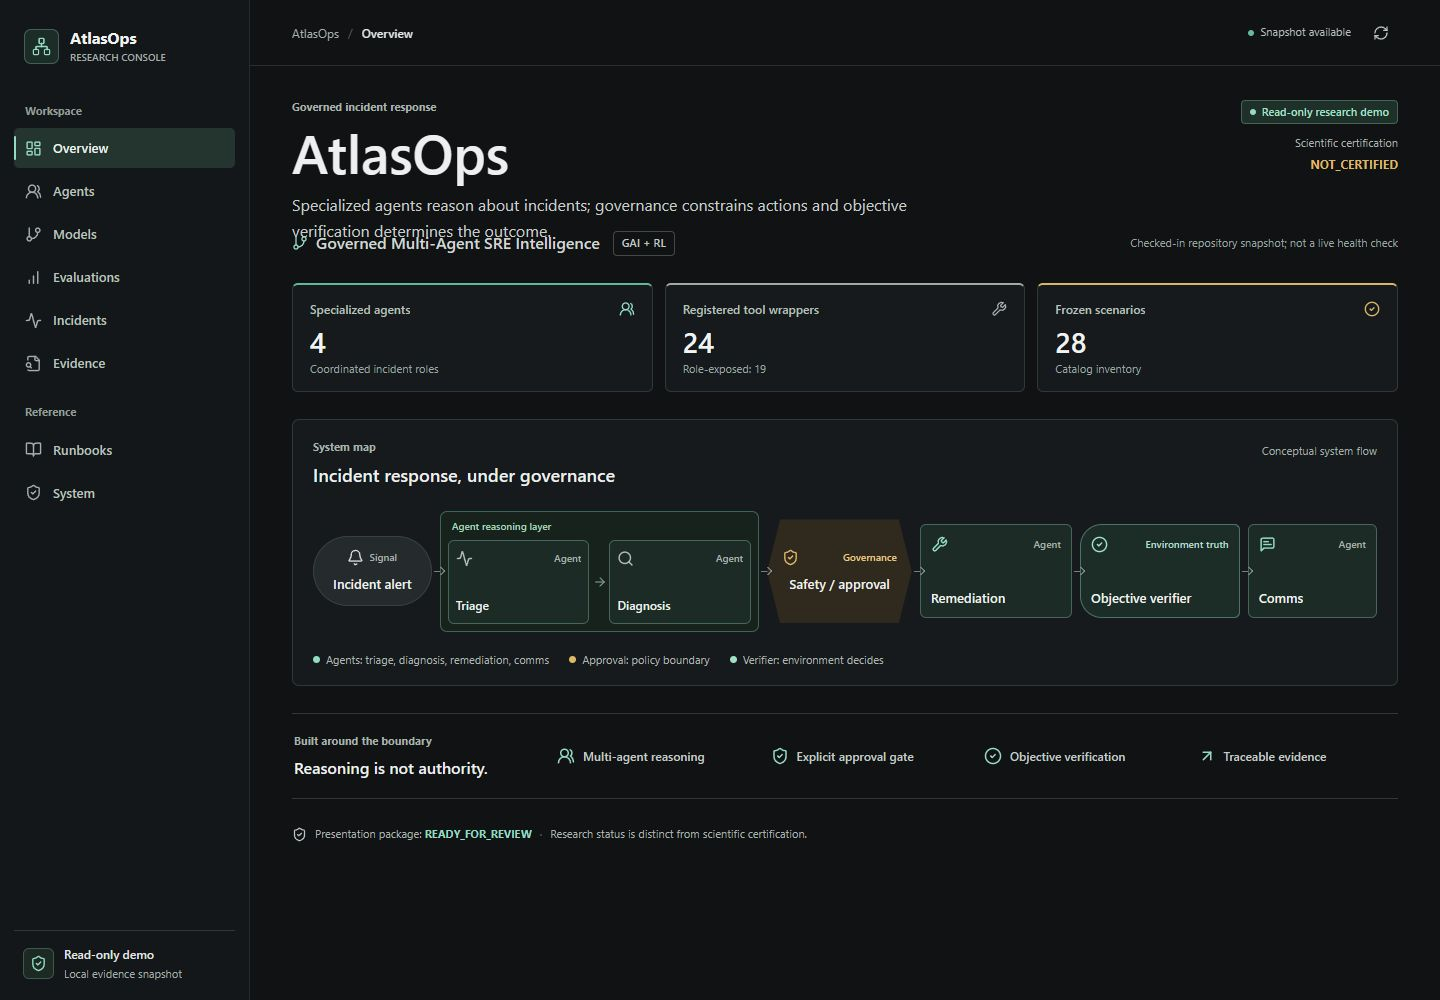
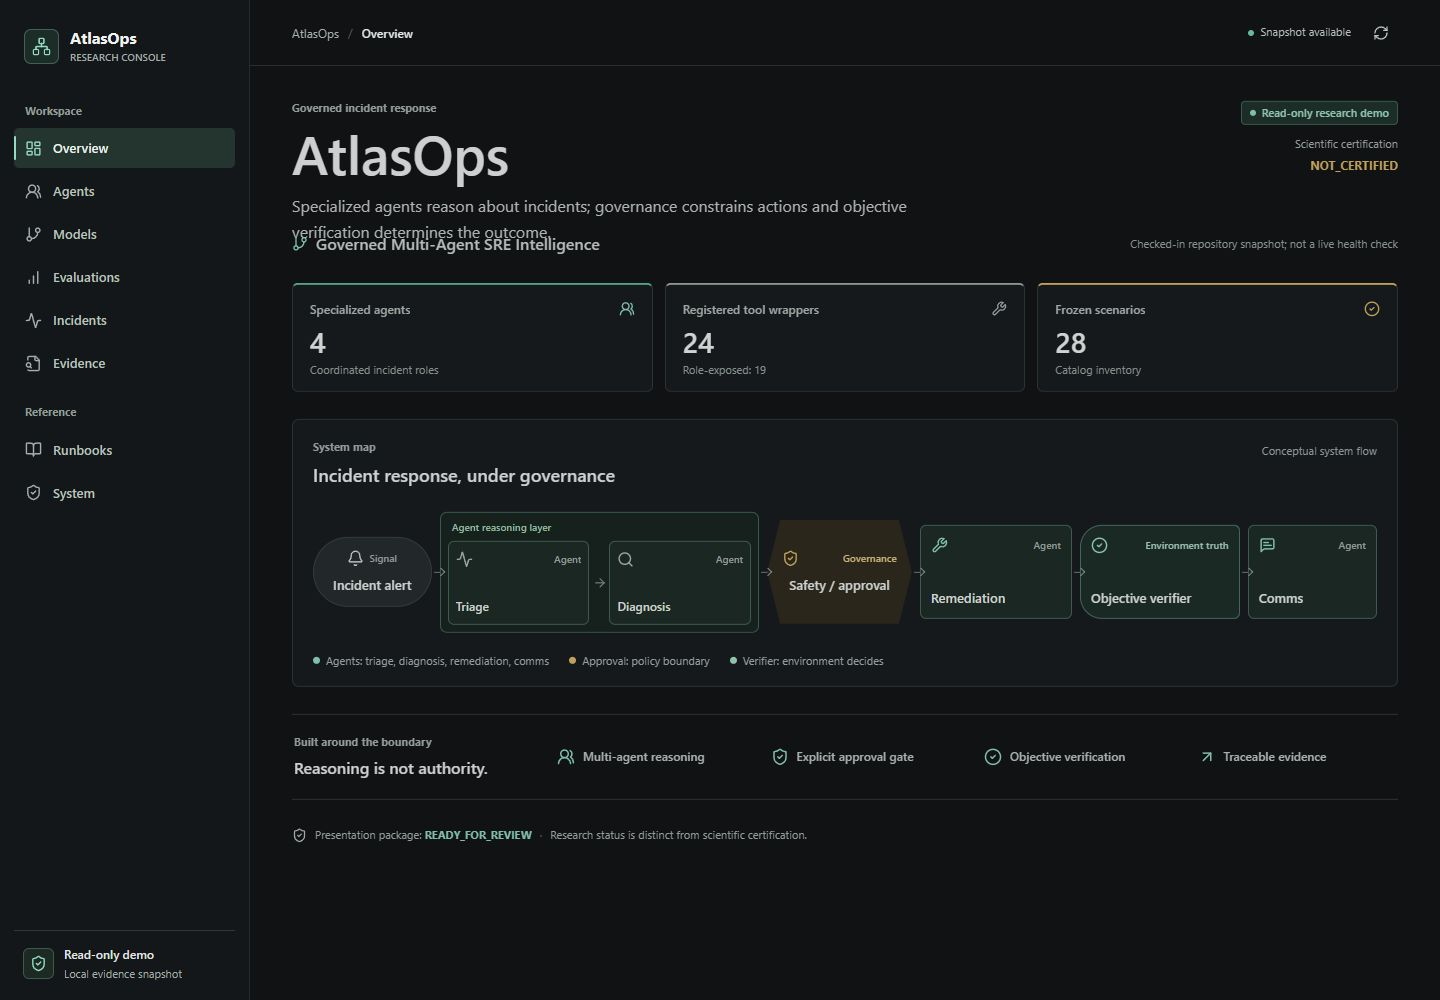
fix(ui): remove combined research label from presentation

diff --git a/frontend/e2e/console.spec.ts b/frontend/e2e/console.spec.ts
@@ -16,7 +16,7 @@ test("overview shows API inventory and stays distinct from certification", async
   await expect(page.getByRole("heading", { level: 1, name: "AtlasOps" })).toBeVisible();
   await expect(page.getByText("Governed Multi-Agent SRE Intelligence")).toBeVisible();
   await expect(page.getByText("Read-only research demo")).toBeVisible();
-  await expect(page.getByText("GAI + RL")).toBeVisible();
+  await expect(page.getByText(/GAI\s*\+\s*RL/i)).toHaveCount(0);
 
   const tools = page.locator(".metric-tile").filter({ hasText: "Registered tool wrappers" });
   await expect(tools.locator(".metric-value")).toHaveText("24");
@@ -32,6 +32,7 @@ test("every primary route is reachable through the hash router", async ({ page }
   for (const [label, path, heading] of routes) {
     await page.goto(`/#${path}`);
     await expect(page.getByRole("heading", { level: 1, name: heading })).toBeVisible();
+    await expect(page.getByText(/GAI\s*\+\s*RL/i)).toHaveCount(0);
   }
 });
 

diff --git a/frontend/src/pages/OverviewPage.tsx b/frontend/src/pages/OverviewPage.tsx
@@ -9,9 +9,6 @@ import { displayNumber, displayText } from "../lib/format";
 
 export function OverviewPage({ catalog }: CatalogPageProps) {
   const product = catalog?.product;
-  const workstreams = product?.workstreams?.length
-    ? product.workstreams.join(" + ")
-    : "Unavailable";
 
   return (
     <div className="page-stack overview-page">
@@ -35,7 +32,6 @@ export function OverviewPage({ catalog }: CatalogPageProps) {
             <span className="hero-subtitle-mark" aria-hidden="true"><GitBranch size={16} /></span>
             <span>{displayText(product?.subtitle)}</span>
           </div>
-          <Badge tone="outline" className="workstream-badge">{workstreams}</Badge>
           <span className="hero-source">{displayText(catalog?.source)}</span>
         </div>
       </section>

diff --git a/frontend/src/api/types.ts b/frontend/src/api/types.ts
@@ -168,7 +168,6 @@ export interface Product {
   name: string;
   subtitle: string;
   description: string;
-  workstreams: string[];
   agent_count: Nullable<number>;
   tool_count: Nullable<number>;
   agent_exposed_tool_count: Nullable<number>;

diff --git a/demo/read_api.py b/demo/read_api.py
@@ -79,7 +79,6 @@ def product() -> dict[str, Any]:
         "subtitle": "Governed Multi-Agent SRE Intelligence",
         "description": "Specialized agents reason about incidents; governance constrains actions "
                        "and objective verification determines the outcome.",
-        "workstreams": ["GAI", "RL"],
         "agent_count": len(agents),
         "tool_count": len(tools),
         "agent_exposed_tool_count": len(set().union(*ROLE_ALLOWED_TOOLS.values())),
@@ -208,6 +207,10 @@ def create_app(frontend_dist: Path | None = None) -> FastAPI:
     @application.get("/api/catalog")
     def read_catalog():
         snapshot = catalog()
+        snapshot["gates"] = [
+            {**gate, "name": gate["name"].replace("GAI + RL", "agent system")}
+            for gate in snapshot["gates"]
+        ]
         return {**snapshot, "product": product(), "evidence_browser": evidence_browser(snapshot)}
 
     @application.get("/api/attempts/{name}")

diff --git a/tests/test_repository_hygiene.py b/tests/test_repository_hygiene.py
@@ -371,7 +371,7 @@ def test_runtime_dependency_declarations_have_no_retired_clients():
     assert {"httpx", "kubernetes", "google-cloud-logging"} <= dependencies
     assert "gradio" not in dependencies
     extras = project["optional-dependencies"]
-    assert "gradio" in {Requirement(value).name for value in extras["demo"]}
+    assert {Requirement(value).name for value in extras["demo"]} == {"fastapi", "uvicorn"}
     assert "gradio" in {Requirement(value).name for value in extras["dev"]}
     assert "matplotlib" not in {Requirement(value).name for value in extras["dev"]}
 

diff --git a/tests/test_claim_integrity.py b/tests/test_claim_integrity.py
@@ -25,7 +25,8 @@ def test_open_gates_are_not_presented_as_certified_results():
         encoding="utf-8"
     )
     assert "Current continuation status: NOT_CERTIFIED" in readme
-    assert "revised the required scope to GAI + RL" in readme
+    assert "current scope revision" in readme
+    assert "GAI + RL" not in readme
     assert "Genuine five-arm results remain" not in readme
     assert "short_description: Evidence-led multi-agent SRE research demo (not certified)" in readme
     assert "responding to real GKE incidents" not in readme

diff --git a/tests/test_demo_read_api.py b/tests/test_demo_read_api.py
@@ -25,6 +25,8 @@ def test_exact_current_results_and_g4_chronology(client):
     response = client.get("/api/catalog")
     assert response.status_code == 200
     data = response.json()
+    assert "workstreams" not in data["product"]
+    assert all("GAI + RL" not in gate["name"] for gate in data["gates"])
     validation = data["current_results"]["base_vs_sft"]
     assert (validation["base_f1"], validation["sft_f1"], validation["paired_delta"]) == (
         0.16875, 0.15935, -0.0094,

diff --git a/README.md b/README.md
@@ -80,8 +80,8 @@ Additional implementation includes:
 - HMAC-chained audit records and evidence manifests with source and artifact hashes.
 - A read-only repository-evidence demo for local review.
 
-The required current academic scope is Generative AI and Reinforcement Learning. The
-project lead [revised the required scope to GAI + RL](docs/project/GAI_RL_SCOPE_REVISION.md).
+The project lead's [current scope revision](docs/project/GAI_RL_SCOPE_REVISION.md)
+defines the required academic workstreams.
 G10/G11 recommender work remains optional historical research and OUT_OF_SCOPE for
 current completion. Historical scenario-derived ranking results do not establish
 operator feedback or incident improvement.
@@ -109,6 +109,9 @@ and [component sources](frontend/THIRD_PARTY_NOTICES.md).
 For frontend development, run the Python launcher on port `7862` and
 `npm run dev --prefix frontend` in a second terminal. Vite proxies only the
 presentation API. Build output and dependencies are local, ignored artifacts.
+The existing `requirements/dev-win-py312.lock` remains the Python development
+test lock, including historical Gradio regression dependencies; it is not needed
+for the new presentation-only launch.
 
 The launcher flags can be inspected without starting the server:
 
